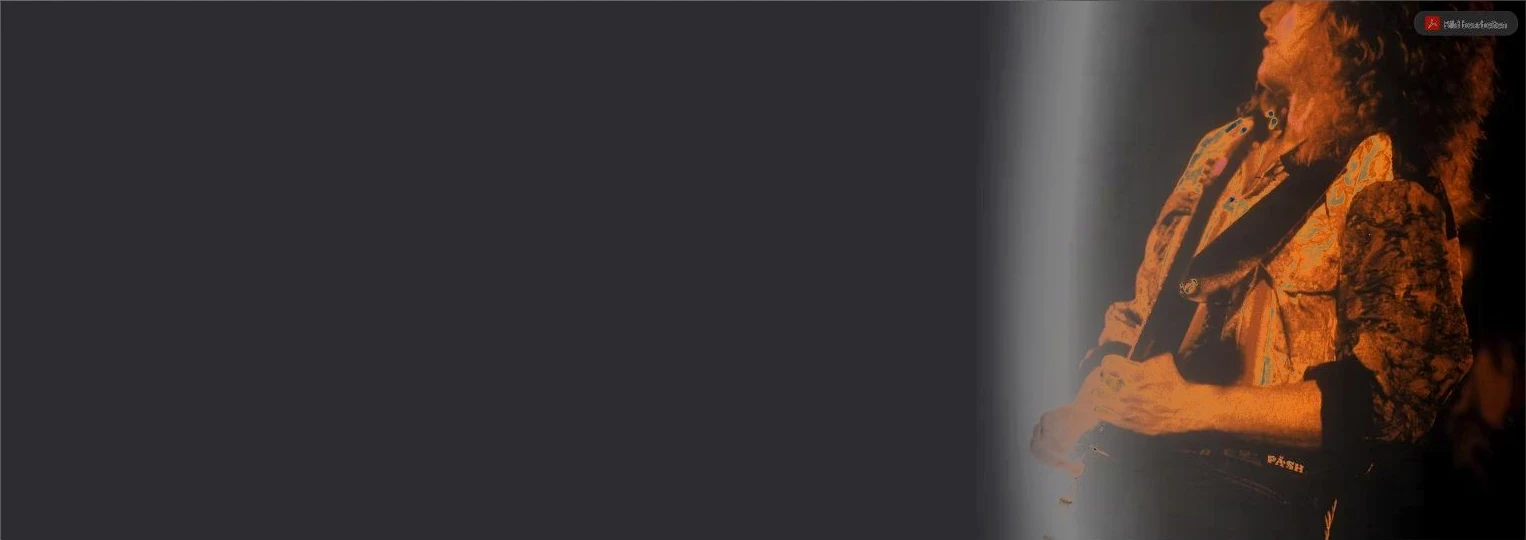
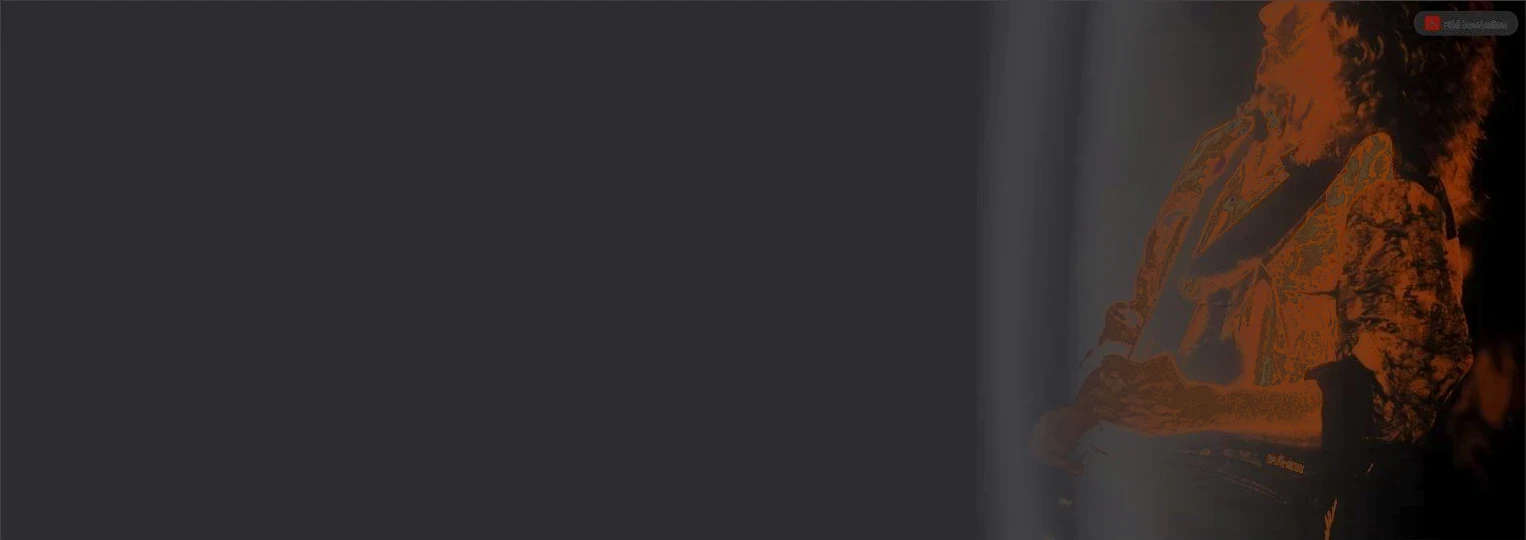
update

Changed region(s): [[0.6468, 0.0, 0.924, 1.0], [0.924, 0.0296, 0.9856, 0.0593], [0.8316, 0.8296, 0.8624, 0.8889]]

diff --git a/public/index.html b/public/index.html
@@ -101,35 +101,49 @@
     .hero-presented{font-family:var(--ff-m);font-size:.7rem;letter-spacing:.3em;text-transform:uppercase;color:var(--muted);margin-bottom:1rem;text-shadow:0 2px 10px rgba(0,0,0,.85)}
     .hero-presented a{color:var(--gold);transition:color .2s}
     .hero-presented a:hover{color:var(--cream)}
-    .hero-title{font-family:var(--ff-d);font-size:clamp(2.6rem,6.5vw,5.5rem);font-weight:900;line-height:1.02;color:var(--light);margin-bottom:.5rem;letter-spacing:-.02em;text-shadow:0 4px 24px rgba(0,0,0,.8);animation:heroChroma 7s infinite}
-    @keyframes heroChroma{0%,93%,100%{text-shadow:0 4px 24px rgba(0,0,0,.8)}94%{text-shadow:-2px 0 #ff2b4d,2px 0 #28e0ff,0 4px 24px rgba(0,0,0,.8)}95%{text-shadow:2px 0 #ff2b4d,-2px 0 #28e0ff,0 4px 24px rgba(0,0,0,.8)}96%{text-shadow:0 4px 24px rgba(0,0,0,.8)}}
+    .hero-title{font-family:var(--ff-d);font-size:clamp(2.6rem,6.5vw,5.5rem);font-weight:900;line-height:1.02;color:var(--light);margin-bottom:.5rem;letter-spacing:-.02em;text-shadow:0 4px 24px rgba(0,0,0,.8);animation:heroChroma 4s infinite}
+    @keyframes heroChroma{0%,84%,100%{text-shadow:0 4px 24px rgba(0,0,0,.8)}85%{text-shadow:-4px 0 #ff2b4d,4px 0 #28e0ff,0 4px 24px rgba(0,0,0,.8)}87%{text-shadow:5px 0 #ff2b4d,-5px 0 #28e0ff,0 4px 24px rgba(0,0,0,.8)}89%{text-shadow:-3px 0 #ff2b4d,3px 0 #28e0ff,0 4px 24px rgba(0,0,0,.8)}91%{text-shadow:0 4px 24px rgba(0,0,0,.8)}}
     @media(prefers-reduced-motion:reduce){.hero-title{animation:none}}
 
     /* ===== SITE-WIDE VHS LAYER ===== */
     .vhs-overlay{position:fixed;inset:0;z-index:9000;pointer-events:none}
-    .vhs-overlay .scanlines{opacity:.35;background-size:100% 3px;animation:vhsRoll 9s linear infinite}
-    .vhs-overlay .grain{opacity:.05;animation:vhsNoise .5s steps(2) infinite}
+    .vhs-overlay .scanlines{opacity:.6;background-size:100% 2px;animation:vhsRoll 6s linear infinite}
+    .vhs-overlay .grain{opacity:.14;animation:vhsNoise .5s steps(2) infinite}
+    .vhs-tracking{position:absolute;left:0;right:0;height:22px;background:linear-gradient(0deg,transparent,rgba(232,232,240,.5) 40%,rgba(232,232,240,.9) 50%,rgba(232,232,240,.5) 60%,transparent);mix-blend-mode:overlay;animation:vhsTrackSweep 11s cubic-bezier(.4,0,.2,1) infinite;opacity:0}
+    @keyframes vhsTrackSweep{0%{top:-5%;opacity:0}2%{opacity:.9}6%{opacity:.9}9%{top:108%;opacity:0}100%{top:108%;opacity:0}}
+    .vhs-frame-corners span{position:fixed;width:26px;height:26px;border:2px solid rgba(201,168,76,.55);z-index:9001;pointer-events:none}
+    .vhs-frame-corners span:nth-child(1){top:14px;left:14px;border-right:none;border-bottom:none}
+    .vhs-frame-corners span:nth-child(2){top:14px;right:14px;border-left:none;border-bottom:none}
+    .vhs-frame-corners span:nth-child(3){bottom:14px;left:14px;border-right:none;border-top:none}
+    .vhs-frame-corners span:nth-child(4){bottom:14px;right:14px;border-left:none;border-top:none}
     @keyframes vhsRoll{0%{background-position:0 0}100%{background-position:0 100px}}
-    @keyframes vhsNoise{0%{transform:translate(0,0)}25%{transform:translate(-1%,1%)}50%{transform:translate(1%,-1%)}75%{transform:translate(-1%,-1%)}100%{transform:translate(0,0)}}
-    .vhs-boot{position:fixed;inset:0;z-index:20000;background:var(--ink);pointer-events:none;display:flex;align-items:center;justify-content:center;animation:vhsBootOut 1.1s ease-out .35s forwards}
-    .vhs-boot .grain{opacity:.9;animation:vhsNoise .06s steps(2) infinite}
-    .vhs-boot-bars{position:absolute;inset:0;display:flex;opacity:.5}
+    @keyframes vhsNoise{0%{transform:translate(0,0)}25%{transform:translate(-1.5%,1.5%)}50%{transform:translate(1.5%,-1.5%)}75%{transform:translate(-1.5%,-1.5%)}100%{transform:translate(0,0)}}
+    .vhs-boot{position:fixed;inset:0;z-index:20000;background:var(--ink);pointer-events:none;display:flex;align-items:center;justify-content:center;animation:vhsBootOut 1.3s ease-out .5s forwards}
+    .vhs-boot .grain{opacity:.95;animation:vhsNoise .05s steps(2) infinite}
+    .vhs-boot-bars{position:absolute;inset:0;display:flex;opacity:.75}
     .vhs-boot-bars span{flex:1}
     .vhs-boot-bars span:nth-child(1){background:#c9a84c}.vhs-boot-bars span:nth-child(2){background:#e8e8f0}
     .vhs-boot-bars span:nth-child(3){background:#9b2335}.vhs-boot-bars span:nth-child(4){background:#111118}
     .vhs-boot-bars span:nth-child(5){background:#2a2a38}.vhs-boot-bars span:nth-child(6){background:#c9a84c}
-    @keyframes vhsBootOut{0%{opacity:1}70%{opacity:1}100%{opacity:0;visibility:hidden}}
+    .vhs-boot-text{position:relative;z-index:2;font-family:var(--ff-m);font-size:1.4rem;letter-spacing:.3em;color:var(--light);text-shadow:2px 0 #ff2b4d,-2px 0 #28e0ff;animation:vhsNoise .08s steps(2) infinite}
+    @keyframes vhsBootOut{0%{opacity:1}75%{opacity:1}100%{opacity:0;visibility:hidden}}
     @media(prefers-reduced-motion:reduce){
-      .vhs-overlay,.vhs-boot{display:none}
+      .vhs-overlay,.vhs-boot,.vhs-tracking{display:none}
     }
     .glitch-text{position:relative;display:inline-block}
     .glitch-text::before,.glitch-text::after{content:attr(data-text);position:absolute;top:0;left:0;width:100%;height:100%;overflow:hidden;background:transparent}
-    .glitch-text::before{color:#ff2b4d;animation:glitchTop 7s infinite linear;clip-path:inset(0 0 60% 0)}
-    .glitch-text::after{color:#28e0ff;animation:glitchBot 7s infinite linear;clip-path:inset(60% 0 0 0)}
-    @keyframes glitchTop{0%,93%,100%{transform:translate(0,0);opacity:0}94%{transform:translate(-3px,-1px);opacity:.7}96%{transform:translate(3px,1px);opacity:.7}97%{opacity:0}}
-    @keyframes glitchBot{0%,92%,100%{transform:translate(0,0);opacity:0}93%{transform:translate(3px,1px);opacity:.7}95%{transform:translate(-2px,-1px);opacity:.7}96.5%{opacity:0}}
+    .glitch-text::before{color:#ff2b4d;animation:glitchTop 4s infinite linear;clip-path:inset(0 0 60% 0)}
+    .glitch-text::after{color:#28e0ff;animation:glitchBot 4s infinite linear;clip-path:inset(60% 0 0 0)}
+    @keyframes glitchTop{0%,84%,100%{transform:translate(0,0);opacity:0}85%{transform:translate(-5px,-2px);opacity:.85}87%{transform:translate(4px,1px);opacity:.85}89%{transform:translate(-3px,1px);opacity:.85}91%{opacity:0}}
+    @keyframes glitchBot{0%,83%,100%{transform:translate(0,0);opacity:0}84%{transform:translate(5px,1px);opacity:.85}86%{transform:translate(-4px,-1px);opacity:.85}88.5%{transform:translate(3px,0);opacity:.85}90%{opacity:0}}
     @media(prefers-reduced-motion:reduce){.glitch-text::before,.glitch-text::after{display:none}}
-    .archival-grade{filter:sepia(.16) saturate(1.12) contrast(1.1) brightness(.96)}
+    .archival-grade{filter:sepia(.22) saturate(1.25) contrast(1.18) brightness(.94)}
+    .vhs-stripe{height:6px;width:100%;display:flex}
+    .vhs-stripe span{flex:1}
+    .vhs-stripe span:nth-child(1){background:#c9a84c}.vhs-stripe span:nth-child(2){background:#9b2335}
+    .vhs-stripe span:nth-child(3){background:#e8e8f0}.vhs-stripe span:nth-child(4){background:#2a2a38}
+    .vhs-stripe span:nth-child(5){background:#8a6f2e}.vhs-stripe span:nth-child(6){background:#c9a84c}
+    .vhs-stripe span:nth-child(7){background:#9b2335}.vhs-stripe span:nth-child(8){background:#e8e8f0}
     .hero-title em{font-style:italic;color:var(--gold)}
     .hero-sub{font-family:var(--ff-d);font-size:clamp(1rem,2.5vw,1.5rem);font-weight:400;font-style:italic;color:var(--body);margin-bottom:2rem;display:block;text-shadow:0 2px 14px rgba(0,0,0,.85)}
     .hero-meta{display:flex;align-items:center;gap:2rem;flex-wrap:wrap}
@@ -438,11 +452,14 @@
 <div class="vhs-boot" aria-hidden="true">
   <div class="vhs-boot-bars"><span></span><span></span><span></span><span></span><span></span><span></span></div>
   <div class="grain"></div>
+  <div class="vhs-boot-text">▶ PLAY · HEART AND SOUL</div>
 </div>
 <div class="vhs-overlay" aria-hidden="true">
   <div class="scanlines"></div>
   <div class="grain"></div>
+  <div class="vhs-tracking"></div>
 </div>
+<div class="vhs-frame-corners" aria-hidden="true"><span></span><span></span><span></span><span></span></div>
 
 
 <audio id="bgAudio" src="assets/heart_and_soul.opus" loop preload="none"></audio>
@@ -474,6 +491,8 @@
     <button class="nav-hamburger" onclick="toggleMenu()"><span></span><span></span><span></span></button>
   </div>
 </nav>
+
+<div class="vhs-stripe" aria-hidden="true"><span></span><span></span><span></span><span></span><span></span><span></span><span></span><span></span></div>
 
 <div class="filmstrip" aria-hidden="true">
   <div class="filmstrip-track">
@@ -536,7 +555,6 @@
   <div class="press-slide archival-grade" style="background-image:url('assets/press_slide_2.webp')" data-quote="„Scaramouche sind wieder da!“" data-source="Time for Metal, 2019"></div>
   <div class="press-slide archival-grade" style="background-image:url('assets/press_slide_3.webp')" data-quote="„Comeback auf der Kinoleinwand“" data-source="Badische Neueste Nachrichten, 2018"></div>
   <div class="press-slide archival-grade" style="background-image:url('assets/press_slide_4.webp')" data-quote="„Scaramouche kommt ins Kino!“" data-source="Badische Zeitung, 2018"></div>
-  <div class="press-slide archival-grade" style="background-image:url('assets/press_slide_5.webp')" data-quote="„Scaramouche documentary in the pipeline“" data-source="The Luxembourg Chronicle, 2018"></div>
   <div class="press-slide archival-grade" style="background-image:url('assets/press_slide_6.webp')" data-quote="„Seid Teil davon!“" data-source="Hitradio OHR"></div>
   <div class="press-slide archival-grade" style="background-image:url('assets/press_slide_7.webp')" data-quote="„Material von Scaramouche gesucht“" data-source="RTL Radio"></div>
   <div class="press-slide archival-grade" style="background-image:url('assets/press_slide_8.webp')" data-quote="„Erinnerung an eine Lahrer Kultband“" data-source="Lahrer Zeitung, 2018"></div>
@@ -544,12 +562,13 @@
   <div class="scanlines" aria-hidden="true"></div>
   <div class="grain" aria-hidden="true"></div>
   <div class="vhs-vignette" aria-hidden="true"></div>
+  <div class="vhs-tracking" style="animation-delay:-3s" aria-hidden="true"></div>
   <div class="rec-hud" style="top:2rem;left:3rem">
     <span class="rec-dot"></span>
     <span>REC</span>
     <span id="pressTimecode">00:00:00:00</span>
   </div>
-  <div class="tape-corner" style="top:2rem;right:3rem">SP · PRESSESTIMMEN <span id="pressCounter">01/08</span></div>
+  <div class="tape-corner" style="top:2rem;right:3rem">SP · PRESSESTIMMEN <span id="pressCounter">01/07</span></div>
   <button class="press-arrow press-arrow-prev" id="pressPrev" aria-label="Vorherige Pressestimme"><svg viewBox="0 0 24 24" fill="none" stroke="currentColor" stroke-width="2" stroke-linecap="round" stroke-linejoin="round"><path d="M15 18l-6-6 6-6"/></svg></button>
   <button class="press-arrow press-arrow-next" id="pressNext" aria-label="Nächste Pressestimme"><svg viewBox="0 0 24 24" fill="none" stroke="currentColor" stroke-width="2" stroke-linecap="round" stroke-linejoin="round"><path d="M9 18l6-6-6-6"/></svg></button>
   <div class="press-slider-content">
